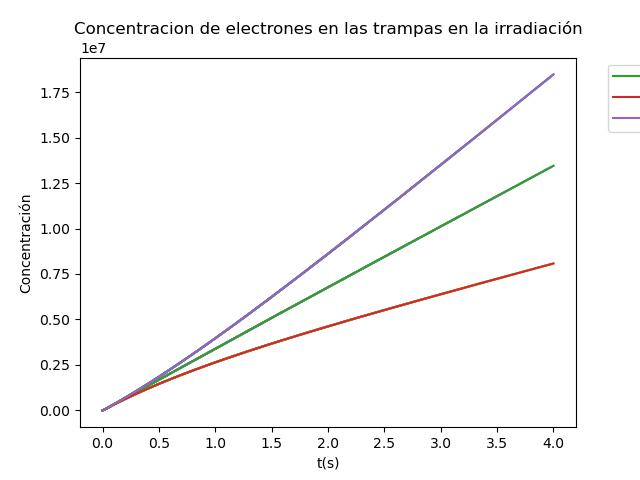
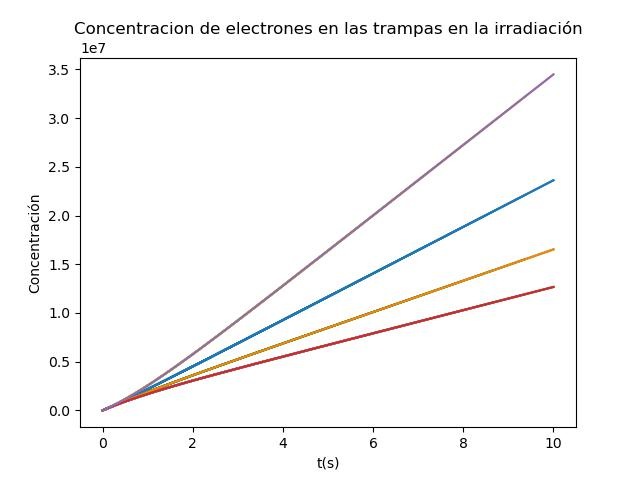
Optimizada velocidad de las gráficas.

diff --git a/app.py b/app.py
@@ -311,9 +311,16 @@ def tl(X, T, beta):  # Calculamos la curva de termoluminiscencia
 
 def tl200(X, T, beta):  # Guardamos 200 canales de la curva de termoluminiscencia
     Temp, TL = tl(X, T, beta)
+    ti200=np.linspace(T[0], T[-1], 200)
     t200 = np.linspace(Temp[0], Temp[-1], 200)
     tl200 = np.interp(t200, Temp, TL)
-    return t200, tl200
+    return t200, tl200,ti200
+def g200(X,T):
+    x = np.zeros((200, len(X[0])), dtype=X.dtype)
+    t=np.linspace(T[0], T[-1], 200)
+    for i in range(len(X[1])):
+        x[:,i]=np.interp(t, T, X[:,i])
+    return(x,t)
 
 
 # Iniziamos la variable que albergará el nuevo número de trampas
@@ -397,10 +404,10 @@ if st.button('Empezar simulación'):
             if solirad.status == 'finished':
 
                 break
-        xtemp = np.array(xi)
-        # Representamos la concentración en las trampas en la irradiación
+        xtemp,ttemp = g200(np.array(xi),ti)
+        #Representamos la concentración en las trampas en la irradiación
         for i in range(1, len(nn)-3):
-            plt.plot(ti, xtemp[:, i])
+            plt.plot(ttemp, xtemp[:, i])
             plt.plot(tmax, 0)
 
             plt.title(
@@ -422,8 +429,7 @@ if st.button('Empezar simulación'):
     xi = np.array(xi)
     plt.figure(1)
     for i in range(1, len(nn)-3):  # Representamos la concentración en las trampas en la irradiación
-        plt.plot(ti, xi[:, i], label=['x', i])
-        plt.legend(bbox_to_anchor=(1.05, 1.0), loc='upper left')
+        plt.plot(ti, xi[:, i])
         plt.title('Concentracion de electrones en las trampas en la irradiación')
         plt.xlabel('t(s)')
         plt.ylabel('Concentración')
@@ -439,6 +445,7 @@ if st.button('Empezar simulación'):
                         rtol=0.01, atol=0.01, vectorized=False, first_step=None)
     tr = []
     xr = []  # Iniziamos la variable que
+    inii=time.time()
     for i in range(pasos):
         for i in range(1000):
             # get solution step state
@@ -458,7 +465,6 @@ if st.button('Empezar simulación'):
             plt.title(
                 'Concentracion de electrones en las trampas en la relajación')
             plt.xlabel('t(s)')
-
             plt.ylabel('Concentración')
             plt.savefig('src/relaj.jpg')
             imager = 'src/relaj.jpg'
@@ -471,12 +477,12 @@ if st.button('Empezar simulación'):
         if solrel.status == 'finished':
             print('Solucionao')
             break
-
+    finir=time.time()
+    print('resuelto en: '+str(finir-inii))
     xr = np.array(xr)
     plt.figure(3)
     for i in range(1, len(nn)-3):  # Representamos la concentración en las trampas en la irradiación
-        plt.plot(tr, xr[:, i], label=['x', i])
-        plt.legend(bbox_to_anchor=(1.05, 1.0), loc='upper left')
+        plt.plot(tr, xr[:, i])
         plt.title('Concentracion de electrones en las trampas en la relajación')
         plt.xlabel('t(s)')
         plt.ylabel('Concentración')
@@ -533,12 +539,13 @@ if st.button('iniciar calentamiento'):
                 break
         xtemp = np.array(xc)
         ttemp=np.array(tc)
+        xg,tg=g200(xtemp,TT)
         # Representamos la concentración en las trampas en la relajación
-        temp,tlc=tl(xtemp.T,TT,beta)
+        temp,tlc,ti200=tl200(xtemp.T,tc,beta)
         for i in range(1, len(nn)-3):
-            plt.figure(1)
-            plt.plot(TT, xtemp[:, i], label=['x', i])
-            plt.legend(bbox_to_anchor=(1.05, 1.0), loc='upper left')
+            fig=plt.figure(1)
+            #plt.plot(TT, xtemp[:, i], label=['x', i])
+            plt.plot(tg, xg[:, i])
             plt.xlim(0, 230)
             plt.title(
                 'Concentracion de electrones en las trampas, beta='+str(beta))
@@ -548,7 +555,8 @@ if st.button('iniciar calentamiento'):
         plt.savefig('src/cal.jpg')
         imagec = 'src/cal.jpg'
         plt.figure(2)
-        plt.plot(ttemp/mt*200,tlc)
+        #plt.plot(ttemp/mt*200,tlc)
+        plt.plot(ti200/mt*200,tlc,'g')
         plt.plot(200,0)
         plt.title('Curva tl, beta='+str(beta))
         plt.xlabel('canal')
